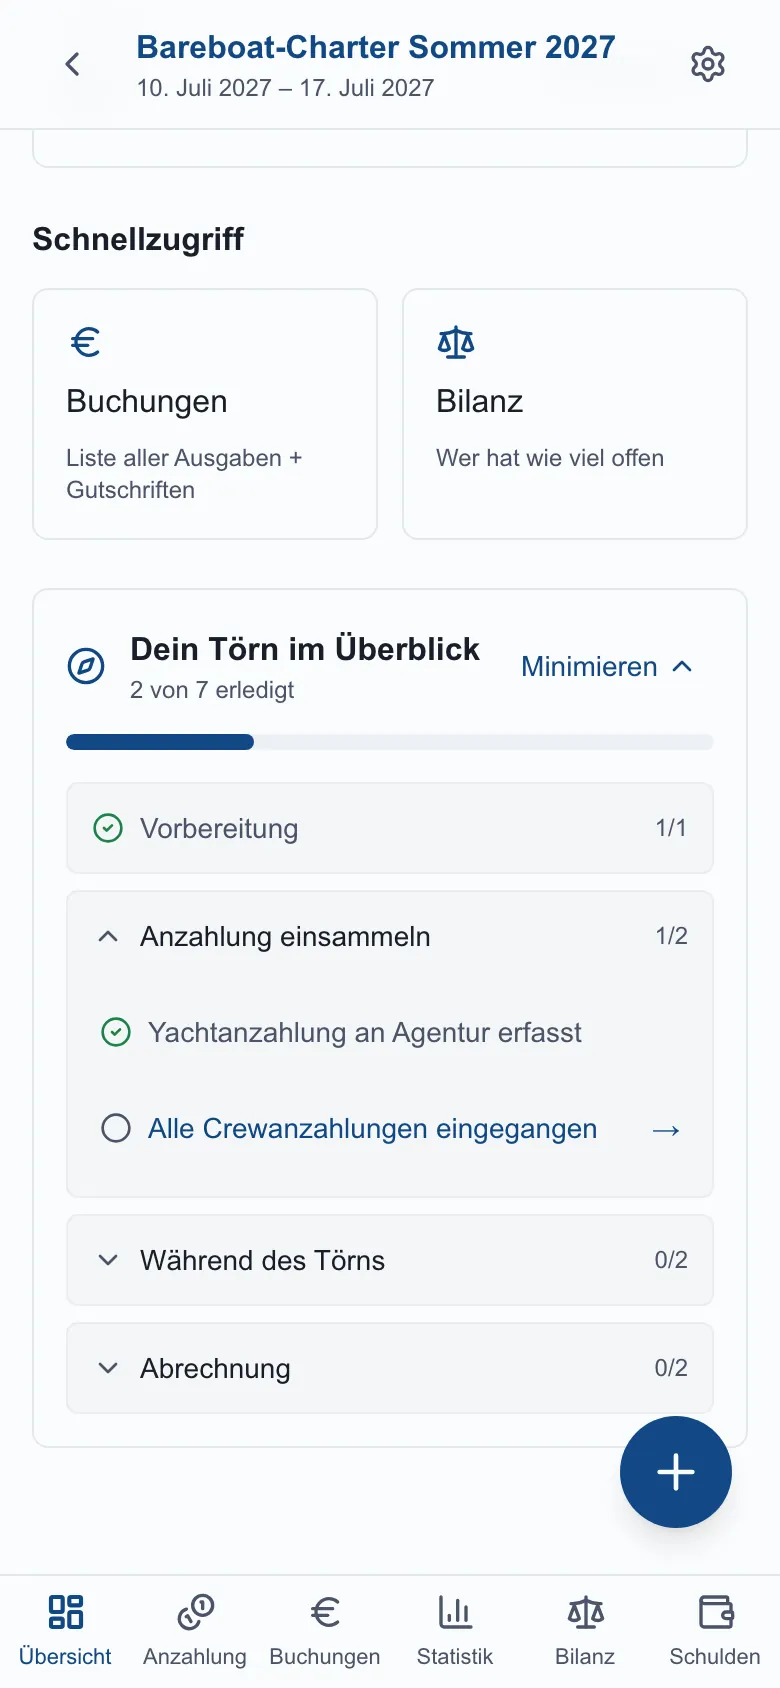
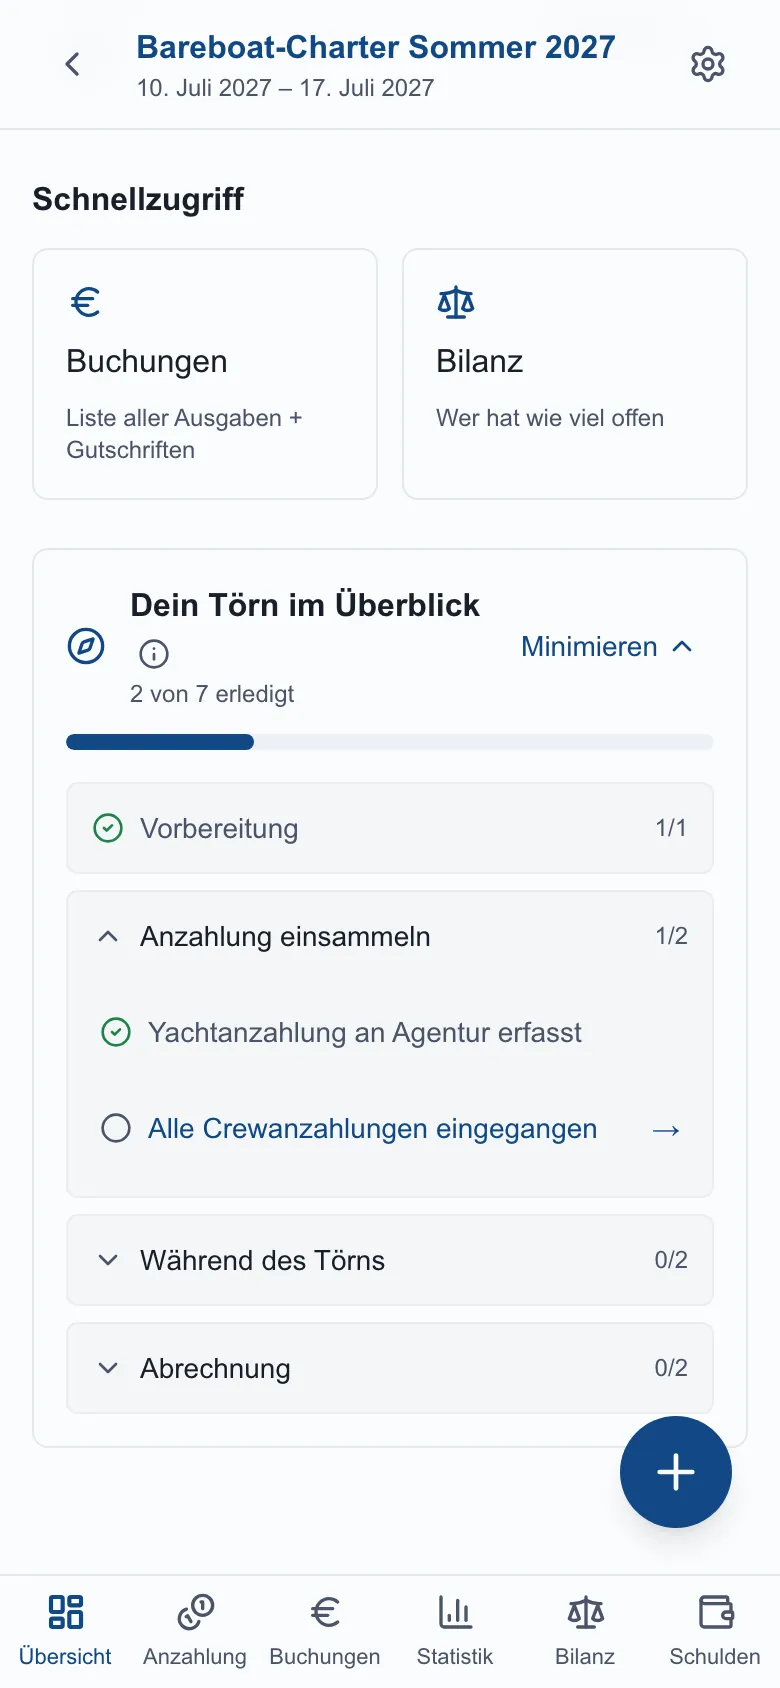
docs(about): Screenshots mit neuen Info-i neu aufgenommen (12/17/18)
Nur die drei von den neuen ⓘ-Tooltips betroffenen Screens neu aufgenommen,
die übrigen 16 WebP bleiben unangetastet:
- 12-gutschrift: „Empfängt (An)" mit ⓘ („An Alle")
- 17-anzahlung-crew-self: „Fällig {Datum}" mit ⓘ (3-Tage-Puffer)
- 18-toern-fortschritt: „Dein Törn im Überblick" mit ⓘ

take-screenshots.ts: zwei kleine, reusable Erweiterungen für selektive
Re-Runs:
- SHOTS=<name,…> nimmt nur die gelisteten Shots neu auf (Navigation läuft
  komplett, nicht-gelistete WebP bleiben unberührt)
- BASE_URL überschreibbar (hier nötig, weil Port 3000 belegt war → Server
  lief auf 3100)

diff --git a/webapp/scripts/take-screenshots.ts b/webapp/scripts/take-screenshots.ts
@@ -40,6 +40,10 @@
  *        npx tsx scripts/take-screenshots.ts; RC=$?
  *        kill $SRV
  *
+ * SELEKTIVER RE-RUN: `SHOTS=12-gutschrift,18-toern-fortschritt npx tsx
+ *   scripts/take-screenshots.ts` nimmt NUR die gelisteten Shots neu auf
+ *   (Navigation läuft komplett, übrige WebP bleiben unangetastet).
+ *
  * Hinweise:
  *   - Login läuft über Mailpit (lokaler Magic-Link); seed-demo.sh legt
  *     Anna (skipper@) + Clara (clara@) via Admin-API an und verknüpft
@@ -52,7 +56,7 @@ import { mkdir } from "node:fs/promises";
 import { resolve } from "node:path";
 import sharp from "sharp";
 
-const BASE_URL = "http://localhost:3000";
+const BASE_URL = process.env.BASE_URL ?? "http://localhost:3000";
 const MAILPIT_URL = "http://127.0.0.1:54324";
 const SKIPPER_EMAIL = "skipper@example.com";   // Anna (Skipper + Admin)
 const CREW_EMAIL = "clara@example.com";        // Clara (reguläres Crew-Member)
@@ -97,7 +101,20 @@ async function clearMailpit() {
   await fetch(`${MAILPIT_URL}/api/v1/messages`, { method: "DELETE" });
 }
 
+// Optionaler Allowlist-Filter: `SHOTS=12-gutschrift,17-…` nimmt NUR die
+// genannten Shots neu auf (selektiver Re-Run). Die übrige Navigation läuft
+// trotzdem komplett (Logins + Trip-Lookup sind Voraussetzung), aber die
+// nicht-gelisteten WebP bleiben unangetastet. Leer = alle Shots.
+const SHOT_ALLOWLIST = (process.env.SHOTS ?? "")
+  .split(",")
+  .map((s) => s.trim())
+  .filter(Boolean);
+
 async function shot(page: Page, name: string) {
+  if (SHOT_ALLOWLIST.length > 0 && !SHOT_ALLOWLIST.includes(name)) {
+    console.log(`  ⤫ ${name}.webp (übersprungen)`);
+    return;
+  }
   // Playwright kann nur PNG/JPEG; wir nehmen den PNG-Buffer und schreiben
   // ihn als WebP raus (~65 % kleiner, von der /about-Seite referenziert).
   const buf = await page.screenshot({ fullPage: false });
